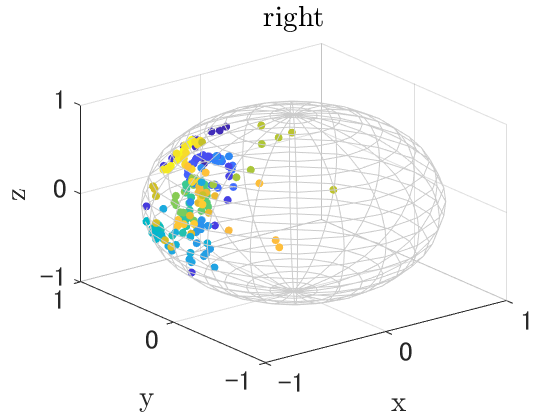
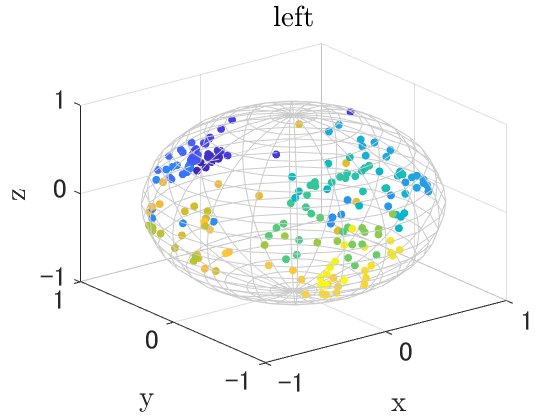
da

diff --git a/poincare_sphere_plot.m b/poincare_sphere_plot.m
@@ -21,17 +21,17 @@ function poincare_sphere_plot(S_HH,S_HV,S_VH,S_VV)
   % scatter3(x_vertical,y_vertical,z_vertical,36,"blue","filled");
    
    
- %   scatter3(x_for_45,y_for_45,z_for_45,36,plot_order_for_45,"filled");
+  %  scatter3(x_for_45,y_for_45,z_for_45,36,plot_order_for_45,"filled");
   %   scatter3(x_for_45,y_for_45,z_for_45,36,"black","filled");
  
    %   scatter3(x_back_45,y_back_45,z_back_45,36,plot_order_back_45,"filled");
  %  scatter3(x_back_45,y_back_45,z_back_45,36,"yellow","filled");
       
-    % scatter3(x_left_45,y_left_45,z_left_45,36,plot_order_left_45,"filled");  
+     scatter3(x_left_45,y_left_45,z_left_45,36,plot_order_left_45,"filled");  
     %  scatter3(x_left_45,y_left_45,z_left_45,36,"cyan","filled");   
     
 
-         scatter3(x_right_45,y_right_45,z_right_45,36,plot_order_right_45,"filled");
+      %   scatter3(x_right_45,y_right_45,z_right_45,36,plot_order_right_45,"filled");
       %    scatter3(x_right_45,y_right_45,z_right_45,36,"magenta","filled");
        xlabel("x");
     ylabel("y");
@@ -39,7 +39,7 @@ function poincare_sphere_plot(S_HH,S_HV,S_VH,S_VV)
    
 
     colormap(parula);
-    title("right");
+    title("left");
       hold on
    % legend("horizontal","vertical","+45°","-45°","left","right");
     sphere

diff --git a/calc_stokes_vector.m b/calc_stokes_vector.m
@@ -3,15 +3,15 @@ function [x,y,z,plot_order]=calc_stokes_vector(S_HH,S_HV,S_VH,S_VV,E_iH,E_iV)
     E_rV=S_VH*E_iH+S_VV*E_iV;
 
 
-    J__HH=squeeze(( E_rH.*conj(E_rH)));
-    J__HV=squeeze((E_rH.*conj(E_rV)));
-    J__VH=squeeze((E_rV.*conj(E_rH)));
-    J__VV=squeeze((E_rV.*conj(E_rV)));   
+%     J__HH=squeeze(( E_rH.*conj(E_rH)));
+%     J__HV=squeeze((E_rH.*conj(E_rV)));
+%     J__VH=squeeze((E_rV.*conj(E_rH)));
+%     J__VV=squeeze((E_rV.*conj(E_rV)));   
 
-    % J__HH=squeeze(mean( E_rH.*conj(E_rH),[1 2]));
-    % J__HV=squeeze(mean(E_rH.*conj(E_rV),[1 2]));
-    % J__VH=squeeze(mean(E_rV.*conj(E_rH),[1 2]));
-    % J__VV=squeeze(mean(E_rV.*conj(E_rV),[1 2]));    
+     J__HH=squeeze(mean( E_rH.*conj(E_rH),[1 2]));
+     J__HV=squeeze(mean(E_rH.*conj(E_rV),[1 2]));
+     J__VH=squeeze(mean(E_rV.*conj(E_rH),[1 2]));
+     J__VV=squeeze(mean(E_rV.*conj(E_rV),[1 2]));    
 %     HH=E_rH.*conj(E_rH);
 %     HV=E_rH.*conj(E_rV);
 %     VH=E_rV.*conj(E_rH);
